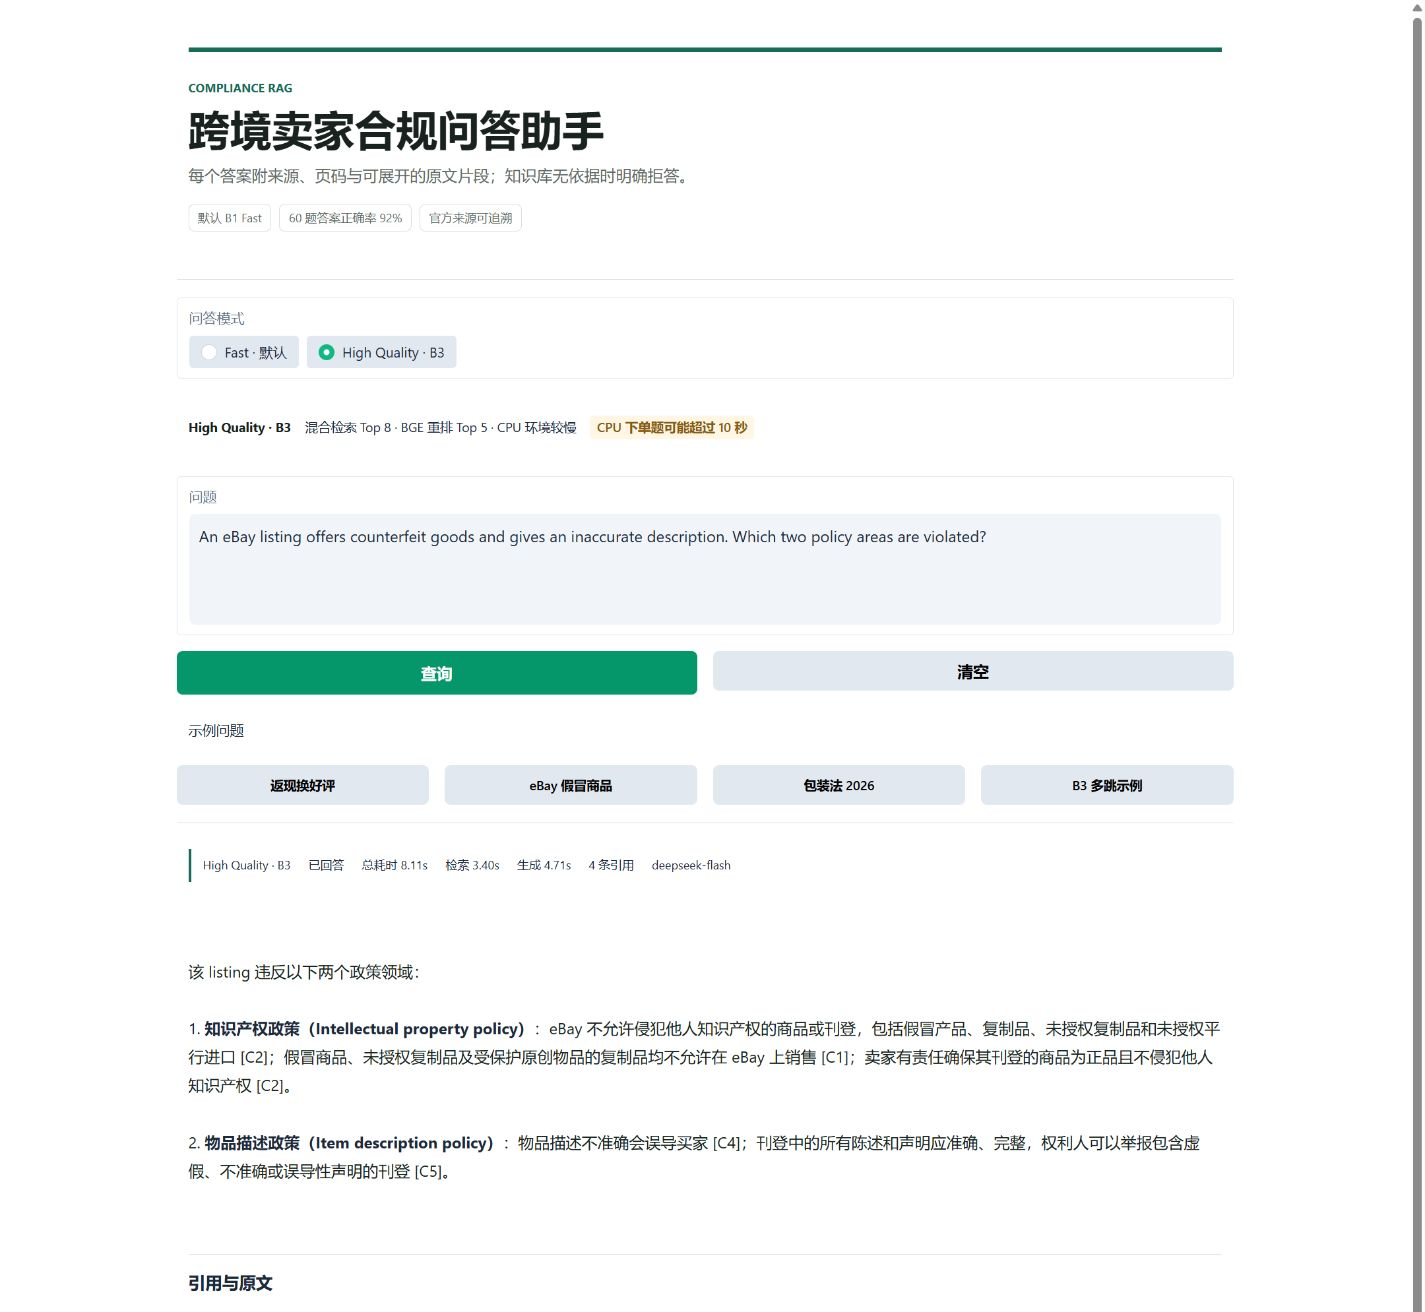
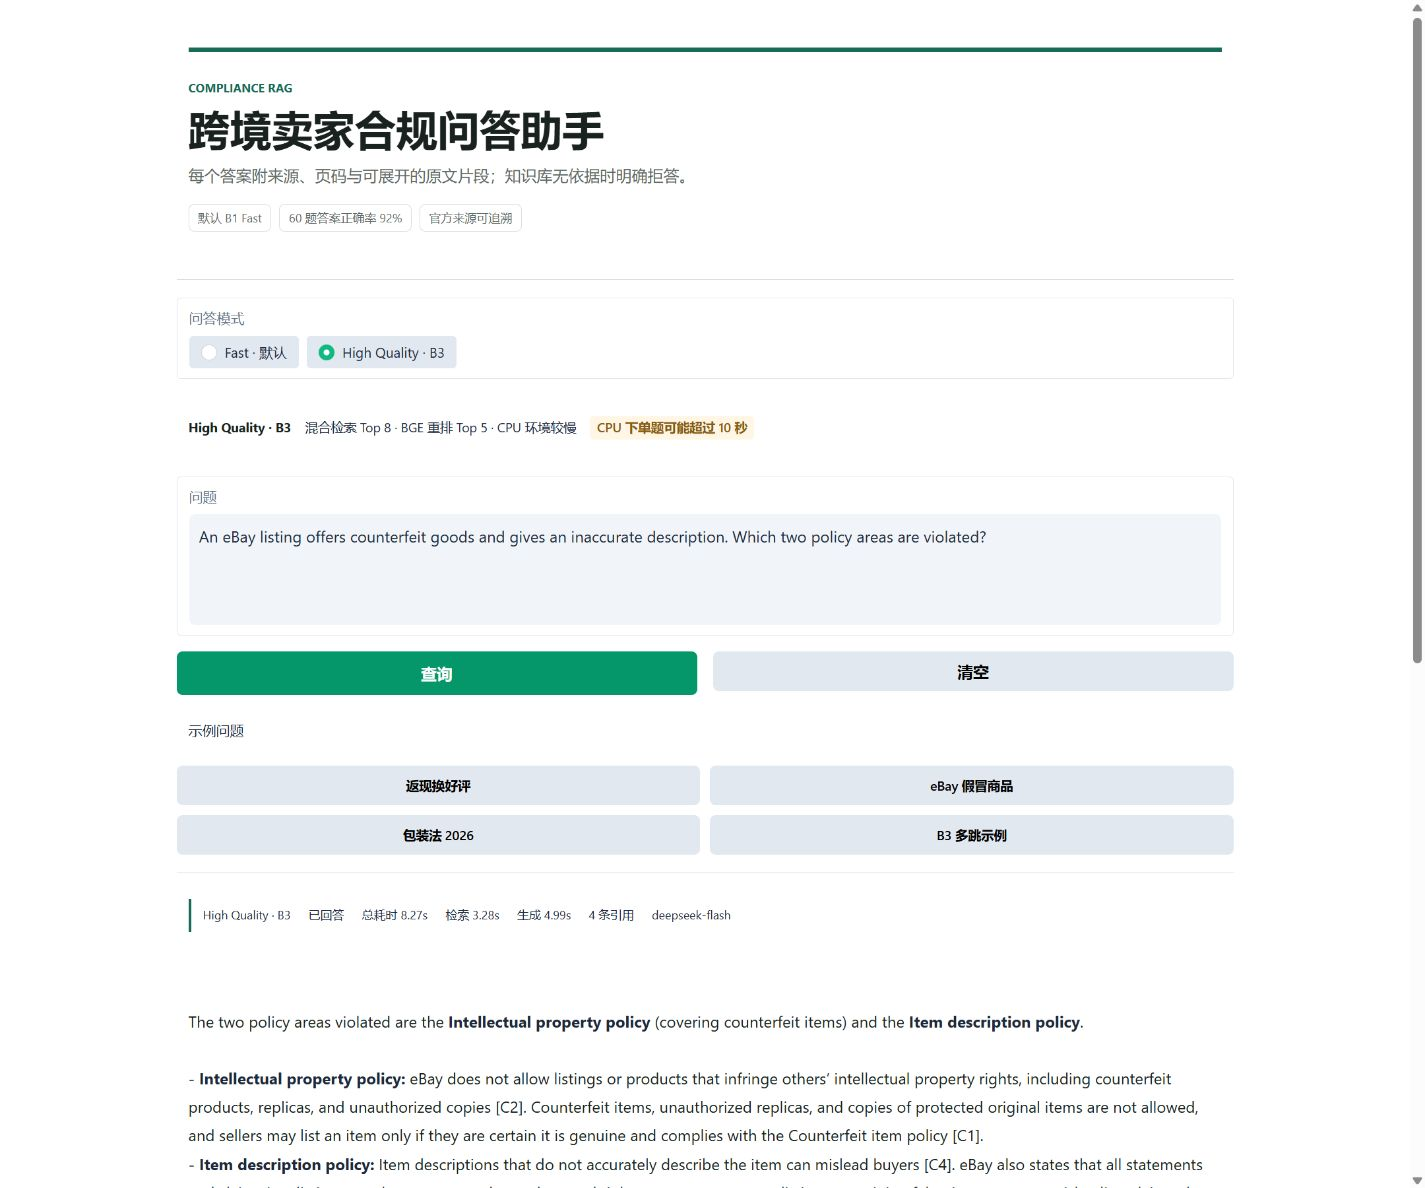
fix: stabilize Gradio demo layout

diff --git a/app.py b/app.py
@@ -37,6 +37,7 @@ body {
 }
 
 .gradio-container {
+  width: 100% !important;
   max-width: 1180px !important;
   margin: 0 auto !important;
   padding: 22px 24px 42px !important;
@@ -117,6 +118,16 @@ body {
 
 .example-button {
   font-size: 13px !important;
+}
+
+#example-grid {
+  display: grid !important;
+  grid-template-columns: repeat(2, minmax(0, 1fr));
+  gap: 10px;
+}
+
+#example-grid > * {
+  min-width: 0;
 }
 
 .mode-hint {
@@ -275,6 +286,9 @@ body {
   #ask-button {
     width: 100%;
   }
+  #example-grid {
+    grid-template-columns: 1fr;
+  }
 }
 """
 
@@ -349,7 +363,7 @@ def build_demo(engine: DemoEngine) -> gr.Blocks:
                     "high",
                 ),
             ]
-            with gr.Row():
+            with gr.Row(elem_id="example-grid"):
                 for label, value, example_mode in example_specs:
                     button = gr.Button(
                         label,

diff --git a/tests/test_demo.py b/tests/test_demo.py
@@ -1,6 +1,6 @@
 """Tests for Gradio demo helpers."""
 
-from app import build_demo
+from app import CSS, build_demo
 from src.demo import (
     DemoEngine,
     format_answer_html,
@@ -86,3 +86,9 @@ def test_refusal_hides_citations_and_reports_zero() -> None:
 def test_gradio_page_builds_without_loading_models() -> None:
     demo = build_demo(DemoEngine())
     assert demo is not None
+
+
+def test_demo_keeps_stable_desktop_width_and_example_grid() -> None:
+    assert "width: 100% !important;" in CSS
+    assert "max-width: 1180px !important;" in CSS
+    assert "grid-template-columns: repeat(2, minmax(0, 1fr));" in CSS
